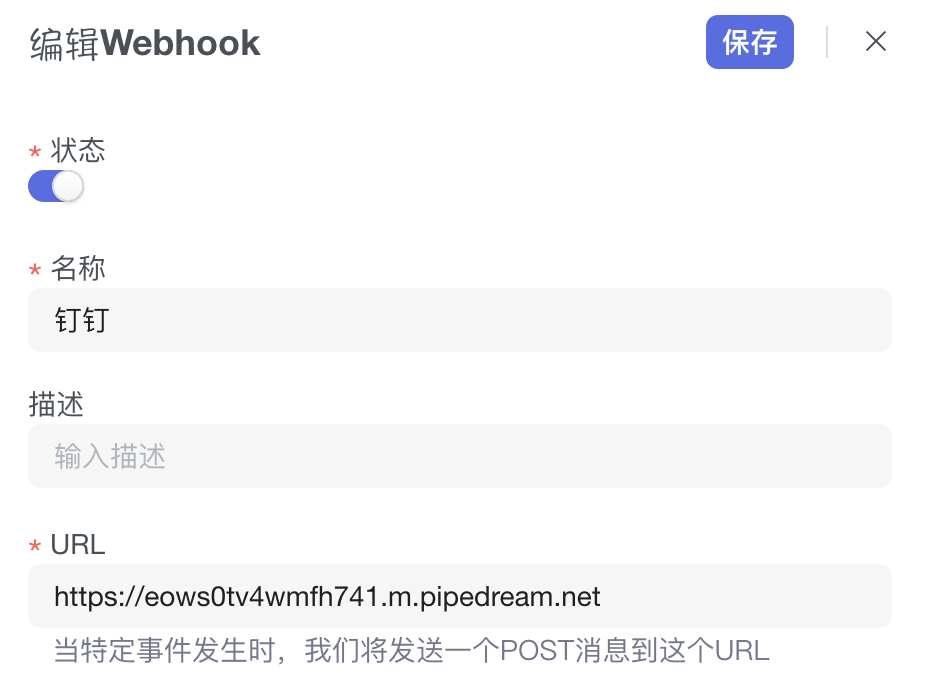
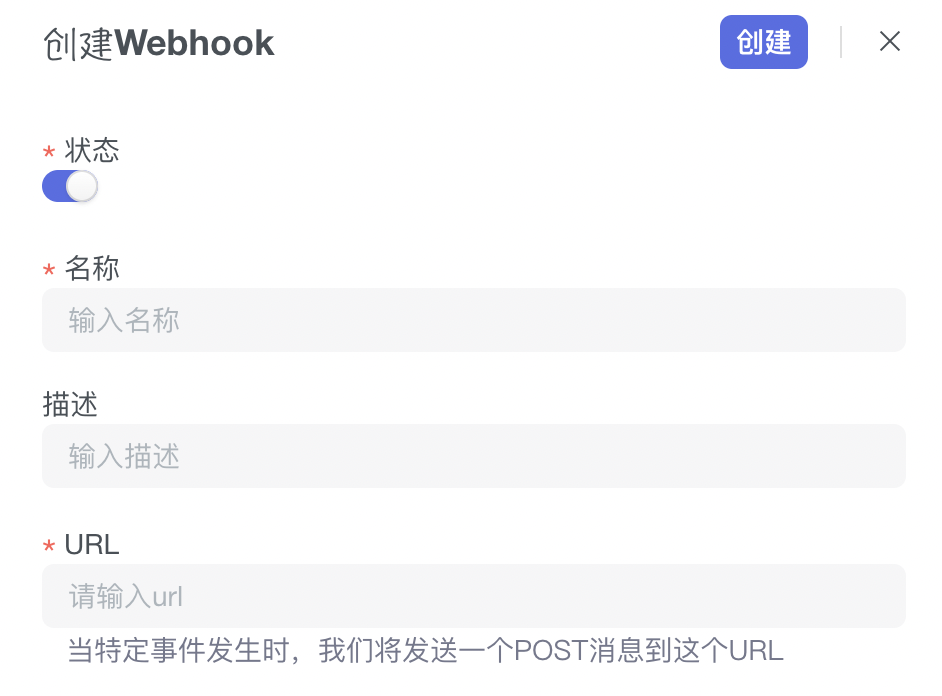
feat: WebHook

diff --git a/i18n/zh-CN/docusaurus-plugin-content-docs/current/how-to/platform/webhooks.md b/i18n/zh-CN/docusaurus-plugin-content-docs/current/how-to/platform/webhooks.md
@@ -4,10 +4,10 @@ sidebar_position: 7
 
 # 配置Webhook
 
-FeatureProbe支持推送消息到第三方应用的能力。
+FeatureProbe提供推送消息到第三方应用的能力。
 ![WebHook list](/WebHook_list.png)
 
-## 添加WebHook
+## 创建WebHook
 
 1. WebHook的状态（开启后，WebHook的配置内容才能生效）
 2. 填写WebHook名称
